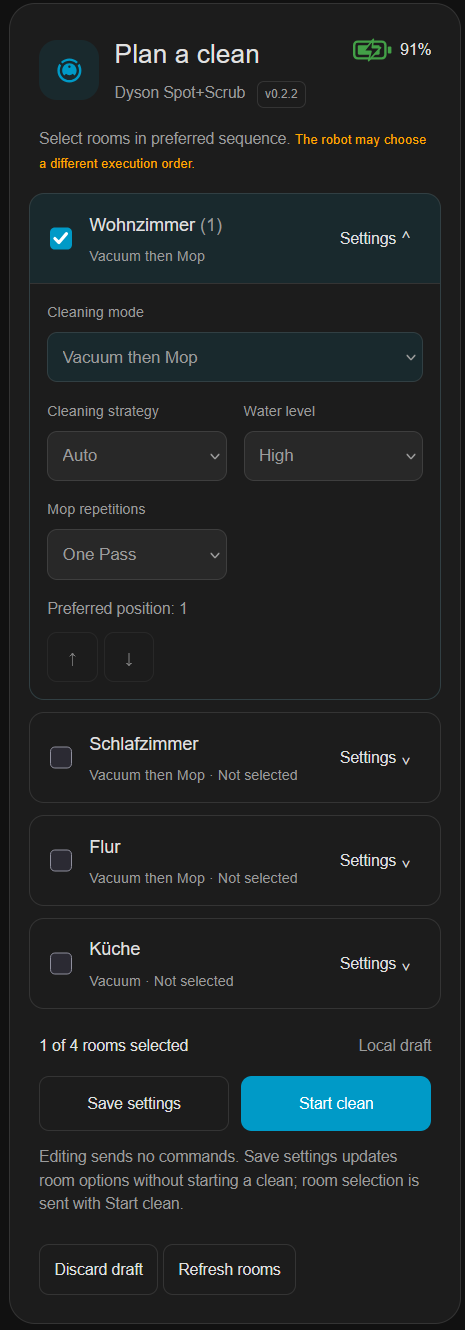
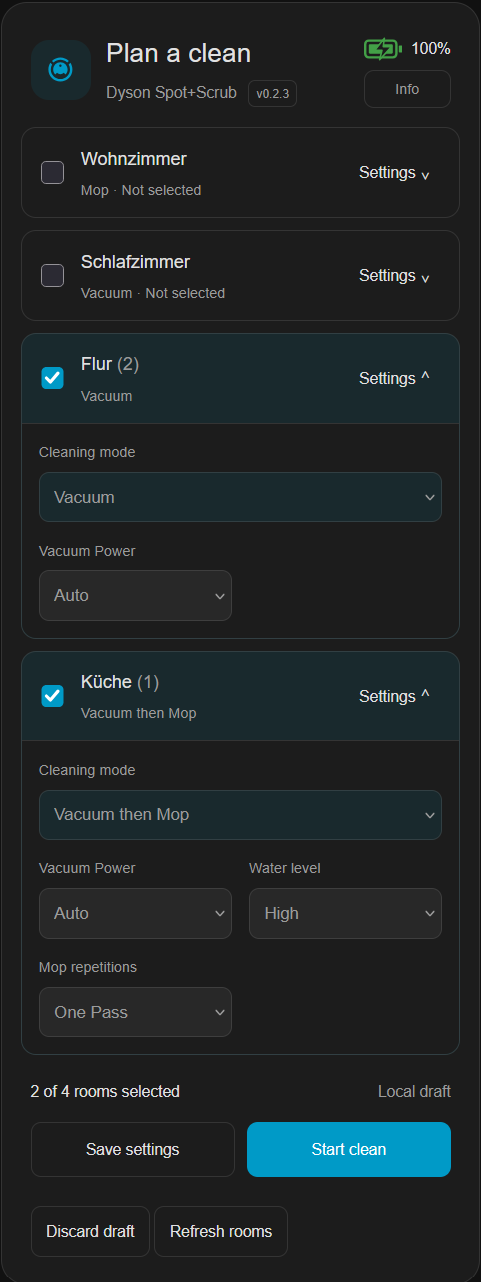
Prepare v0.3.0 with clean repetitions in every mode

diff --git a/dist/dyson-cleaning-planner-card.js b/dist/dyson-cleaning-planner-card.js
@@ -1,6 +1,6 @@
-/* Dyson Cleaning Planner Card v0.2.3 | MIT */
+/* Dyson Cleaning Planner Card v0.3.0 | MIT */
 const DOMAIN = 'dyson_spot_scrub';
-const ROOM_FIELDS = { cleaning_mode: 'Cleaning mode', cleaning_strategy: 'Vacuum Power', water_level: 'Water level', mop_repetitions: 'Mop repetitions' };
+const ROOM_FIELDS = { cleaning_mode: 'Cleaning mode', cleaning_strategy: 'Vacuum Power', water_level: 'Water level', mop_repetitions: 'Clean repetitions' };
 const available = state => !!state && !['unavailable', 'unknown'].includes(state.state) && !state.attributes?.restored;
 const escapeHtml = value => String(value ?? '').replace(/[&<>"']/g, c => ({ '&': '&amp;', '<': '&lt;', '>': '&gt;', '"': '&quot;', "'": '&#39;' }[c]));
 
@@ -706,7 +706,7 @@ class DysonCleaningPlannerCard extends DysonRegistryElement {
     if (this.consumablesOpen && !root.querySelector('.consumables-panel').contains(root.activeElement)) root.querySelector('.consumables-close').focus();
   }
   headerHtml() {
-    return `<header><div class="robot"><ha-icon icon="mdi:robot-vacuum"></ha-icon></div><div class="header-title"><h2>${escapeHtml(this.config.title)}</h2><p>Dyson Spot+Scrub <span class="tag">v0.2.3</span></p></div><div class="header-tools"><div class="battery" role="img"><svg viewBox="0 0 32 20" aria-hidden="true"><rect x="1" y="3" width="26" height="14" rx="3" fill="none" stroke="currentColor" stroke-width="2"/><rect x="29" y="7" width="3" height="6" rx="1" fill="currentColor"/><rect class="battery-fill" x="4" y="6" width="0" height="8" rx="1" fill="currentColor"/><path class="battery-bolt" d="M17 1 9 11h6l-2 8L23 8h-7Z" fill="var(--dp-bg)" stroke="currentColor" stroke-width="1.3" stroke-linejoin="round" hidden/></svg><span class="battery-value" aria-hidden="true">—</span></div><button class="consumables-info" data-action="consumables" data-focus="consumables-info" aria-label="Consumables" aria-haspopup="dialog" aria-expanded="false" title="Consumables">Info</button></div></header>`;
+    return `<header><div class="robot"><ha-icon icon="mdi:robot-vacuum"></ha-icon></div><div class="header-title"><h2>${escapeHtml(this.config.title)}</h2><p>Dyson Spot+Scrub <span class="tag">v0.3.0</span></p></div><div class="header-tools"><div class="battery" role="img"><svg viewBox="0 0 32 20" aria-hidden="true"><rect x="1" y="3" width="26" height="14" rx="3" fill="none" stroke="currentColor" stroke-width="2"/><rect x="29" y="7" width="3" height="6" rx="1" fill="currentColor"/><rect class="battery-fill" x="4" y="6" width="0" height="8" rx="1" fill="currentColor"/><path class="battery-bolt" d="M17 1 9 11h6l-2 8L23 8h-7Z" fill="var(--dp-bg)" stroke="currentColor" stroke-width="1.3" stroke-linejoin="round" hidden/></svg><span class="battery-value" aria-hidden="true">—</span></div><button class="consumables-info" data-action="consumables" data-focus="consumables-info" aria-label="Consumables" aria-haspopup="dialog" aria-expanded="false" title="Consumables">Info</button></div></header>`;
   }
   updateBattery() {
     const state = batteryStatus(this._hass, this.model);
@@ -777,7 +777,7 @@ class DysonCleaningPlannerCard extends DysonRegistryElement {
       const fields = Object.entries(ROOM_FIELDS).map(([key, label]) => {
         if (!this.config.always_show_all_settings) {
           const mode = valueOf('cleaning_mode');
-          if (mode === 'Vacuum' && ['water_level', 'mop_repetitions'].includes(key)) return '';
+          if (mode === 'Vacuum' && key === 'water_level') return '';
           if (mode === 'Mop' && key === 'cleaning_strategy') return '';
         }
         const field = room.settings?.[key];
@@ -785,7 +785,7 @@ class DysonCleaningPlannerCard extends DysonRegistryElement {
         const value = valueOf(key), options = field?.options ?? [];
         return `<label class="field ${key === 'cleaning_mode' ? 'mode' : ''}">${label}<select data-setting="${key}" data-room-id="${h(room.roomId)}" data-focus="${key}-${n}" aria-label="${label} ${h(room.name)}" ${disabled || !field ? 'disabled' : ''}>${!options.includes(value) ? '<option value="">Unavailable</option>' : ''}${options.map(option => `<option value="${h(option)}" ${value === option ? 'selected' : ''}>${h(option)}</option>`).join('')}</select>${!field ? '<span class="badge">Not available</span>' : ''}</label>`;
       }).join('');
-      return `<section class="room ${selected ? 'selected' : ''}"><div class="room-head"><label class="pick"><input type="checkbox" data-focus="room-${n}" data-room="${h(room.entity)}" ${selected ? 'checked' : ''} ${disabled ? 'disabled' : ''}><span><span class="name">${h(room.name)} ${selected ? `<span class="status">(${order})</span>` : ''}</span><span class="summary">${!room.available ? h(room.error || 'Unavailable') : h(valueOf('cleaning_mode') ?? 'Room settings unavailable')}${selected ? '' : ' · Not selected'}</span></span></label><button class="expand" data-focus="expand-${n}" data-expand="${h(room.entity || room.name)}" aria-expanded="${open}" aria-controls="fields-${n}" aria-label="Settings for ${h(room.name)}"><span>Settings</span> ${open ? '⌃' : '⌄'}</button></div><div class="fields" id="fields-${n}" ${open ? '' : 'hidden'}>${fields}${!room.roomId ? '<p class="badge mode">Room ID unavailable. Check the updated integration and refresh rooms.</p>' : ''}</div></section>`;
+      return `<section class="room ${selected ? 'selected' : ''}"><div class="room-head"><label class="pick"><input type="checkbox" data-focus="room-${n}" data-room="${h(room.entity)}" ${selected ? 'checked' : ''} ${disabled ? 'disabled' : ''}><span><span class="name">${h(room.name)} ${selected ? `<span class="status">(${order})</span>` : ''}</span><span class="summary">${!room.available ? h(room.error || 'Unavailable') : h(valueOf('cleaning_mode') ?? 'Room settings unavailable')}</span></span></label><button class="expand" data-focus="expand-${n}" data-expand="${h(room.entity || room.name)}" aria-expanded="${open}" aria-controls="fields-${n}" aria-label="Settings for ${h(room.name)}"><span>Settings</span> ${open ? '⌃' : '⌄'}</button></div><div class="fields" id="fields-${n}" ${open ? '' : 'hidden'}>${fields}${!room.roomId ? '<p class="badge mode">Room ID unavailable. Check the updated integration and refresh rooms.</p>' : ''}</div></section>`;
     }).join('');
     this.paint(`<style>${styles}</style><ha-card><div class="planner-content">${this.headerHtml()}${this.statusHtml()}<div class="rooms">${roomHtml}</div>${!rooms.length ? '<p class="empty">No enabled rooms found. Check the card configuration and room discovery.</p>' : ''}<footer><div class="summary-line"><span>${this.selected.length} of ${rooms.length} rooms selected</span><span class="status">${this.dirty ? 'Local draft' : 'From Home Assistant'}</span></div><div class="actions"><button data-action="save" data-focus="save" ${!hasChanges || this.busy || !canSave ? 'disabled' : ''}>${this.saving ? 'Saving …' : 'Save settings'}</button><button class="start" data-focus="start" data-action="start" ${this.selected.length === 0 || this.busy || dockBlocksStart(this._hass, this.config.entity) ? 'disabled' : ''}>Start clean</button></div>${!canSave || !canStart ? '<p class="notice badge">The updated Dyson integration actions are not available. Reload the integration and refresh this dashboard.</p>' : ''}${external ? '<p class="notice badge">Settings changed outside this card. Your edited values remain in the local draft.</p>' : ''}<p class="notice ${this.error ? 'error' : ''}" role="status" aria-live="polite">${h(this.message)}</p><button class="reset" data-focus="reset" data-action="reset" ${this.busy ? 'disabled' : ''}>Discard draft</button> <button class="reset" data-action="refresh" ${this.busy ? 'disabled' : ''}>Refresh rooms</button></footer></div>${this.consumablesHtml()}</ha-card>`);
     this.updateBattery();

diff --git a/src/card.js b/src/card.js
@@ -278,7 +278,7 @@ class DysonCleaningPlannerCard extends DysonRegistryElement {
     if (this.consumablesOpen && !root.querySelector('.consumables-panel').contains(root.activeElement)) root.querySelector('.consumables-close').focus();
   }
   headerHtml() {
-    return `<header><div class="robot"><ha-icon icon="mdi:robot-vacuum"></ha-icon></div><div class="header-title"><h2>${escapeHtml(this.config.title)}</h2><p>Dyson Spot+Scrub <span class="tag">v0.2.3</span></p></div><div class="header-tools"><div class="battery" role="img"><svg viewBox="0 0 32 20" aria-hidden="true"><rect x="1" y="3" width="26" height="14" rx="3" fill="none" stroke="currentColor" stroke-width="2"/><rect x="29" y="7" width="3" height="6" rx="1" fill="currentColor"/><rect class="battery-fill" x="4" y="6" width="0" height="8" rx="1" fill="currentColor"/><path class="battery-bolt" d="M17 1 9 11h6l-2 8L23 8h-7Z" fill="var(--dp-bg)" stroke="currentColor" stroke-width="1.3" stroke-linejoin="round" hidden/></svg><span class="battery-value" aria-hidden="true">—</span></div><button class="consumables-info" data-action="consumables" data-focus="consumables-info" aria-label="Consumables" aria-haspopup="dialog" aria-expanded="false" title="Consumables">Info</button></div></header>`;
+    return `<header><div class="robot"><ha-icon icon="mdi:robot-vacuum"></ha-icon></div><div class="header-title"><h2>${escapeHtml(this.config.title)}</h2><p>Dyson Spot+Scrub <span class="tag">v0.3.0</span></p></div><div class="header-tools"><div class="battery" role="img"><svg viewBox="0 0 32 20" aria-hidden="true"><rect x="1" y="3" width="26" height="14" rx="3" fill="none" stroke="currentColor" stroke-width="2"/><rect x="29" y="7" width="3" height="6" rx="1" fill="currentColor"/><rect class="battery-fill" x="4" y="6" width="0" height="8" rx="1" fill="currentColor"/><path class="battery-bolt" d="M17 1 9 11h6l-2 8L23 8h-7Z" fill="var(--dp-bg)" stroke="currentColor" stroke-width="1.3" stroke-linejoin="round" hidden/></svg><span class="battery-value" aria-hidden="true">—</span></div><button class="consumables-info" data-action="consumables" data-focus="consumables-info" aria-label="Consumables" aria-haspopup="dialog" aria-expanded="false" title="Consumables">Info</button></div></header>`;
   }
   updateBattery() {
     const state = batteryStatus(this._hass, this.model);
@@ -349,7 +349,7 @@ class DysonCleaningPlannerCard extends DysonRegistryElement {
       const fields = Object.entries(ROOM_FIELDS).map(([key, label]) => {
         if (!this.config.always_show_all_settings) {
           const mode = valueOf('cleaning_mode');
-          if (mode === 'Vacuum' && ['water_level', 'mop_repetitions'].includes(key)) return '';
+          if (mode === 'Vacuum' && key === 'water_level') return '';
           if (mode === 'Mop' && key === 'cleaning_strategy') return '';
         }
         const field = room.settings?.[key];
@@ -357,7 +357,7 @@ class DysonCleaningPlannerCard extends DysonRegistryElement {
         const value = valueOf(key), options = field?.options ?? [];
         return `<label class="field ${key === 'cleaning_mode' ? 'mode' : ''}">${label}<select data-setting="${key}" data-room-id="${h(room.roomId)}" data-focus="${key}-${n}" aria-label="${label} ${h(room.name)}" ${disabled || !field ? 'disabled' : ''}>${!options.includes(value) ? '<option value="">Unavailable</option>' : ''}${options.map(option => `<option value="${h(option)}" ${value === option ? 'selected' : ''}>${h(option)}</option>`).join('')}</select>${!field ? '<span class="badge">Not available</span>' : ''}</label>`;
       }).join('');
-      return `<section class="room ${selected ? 'selected' : ''}"><div class="room-head"><label class="pick"><input type="checkbox" data-focus="room-${n}" data-room="${h(room.entity)}" ${selected ? 'checked' : ''} ${disabled ? 'disabled' : ''}><span><span class="name">${h(room.name)} ${selected ? `<span class="status">(${order})</span>` : ''}</span><span class="summary">${!room.available ? h(room.error || 'Unavailable') : h(valueOf('cleaning_mode') ?? 'Room settings unavailable')}${selected ? '' : ' · Not selected'}</span></span></label><button class="expand" data-focus="expand-${n}" data-expand="${h(room.entity || room.name)}" aria-expanded="${open}" aria-controls="fields-${n}" aria-label="Settings for ${h(room.name)}"><span>Settings</span> ${open ? '⌃' : '⌄'}</button></div><div class="fields" id="fields-${n}" ${open ? '' : 'hidden'}>${fields}${!room.roomId ? '<p class="badge mode">Room ID unavailable. Check the updated integration and refresh rooms.</p>' : ''}</div></section>`;
+      return `<section class="room ${selected ? 'selected' : ''}"><div class="room-head"><label class="pick"><input type="checkbox" data-focus="room-${n}" data-room="${h(room.entity)}" ${selected ? 'checked' : ''} ${disabled ? 'disabled' : ''}><span><span class="name">${h(room.name)} ${selected ? `<span class="status">(${order})</span>` : ''}</span><span class="summary">${!room.available ? h(room.error || 'Unavailable') : h(valueOf('cleaning_mode') ?? 'Room settings unavailable')}</span></span></label><button class="expand" data-focus="expand-${n}" data-expand="${h(room.entity || room.name)}" aria-expanded="${open}" aria-controls="fields-${n}" aria-label="Settings for ${h(room.name)}"><span>Settings</span> ${open ? '⌃' : '⌄'}</button></div><div class="fields" id="fields-${n}" ${open ? '' : 'hidden'}>${fields}${!room.roomId ? '<p class="badge mode">Room ID unavailable. Check the updated integration and refresh rooms.</p>' : ''}</div></section>`;
     }).join('');
     this.paint(`<style>${styles}</style><ha-card><div class="planner-content">${this.headerHtml()}${this.statusHtml()}<div class="rooms">${roomHtml}</div>${!rooms.length ? '<p class="empty">No enabled rooms found. Check the card configuration and room discovery.</p>' : ''}<footer><div class="summary-line"><span>${this.selected.length} of ${rooms.length} rooms selected</span><span class="status">${this.dirty ? 'Local draft' : 'From Home Assistant'}</span></div><div class="actions"><button data-action="save" data-focus="save" ${!hasChanges || this.busy || !canSave ? 'disabled' : ''}>${this.saving ? 'Saving …' : 'Save settings'}</button><button class="start" data-focus="start" data-action="start" ${this.selected.length === 0 || this.busy || dockBlocksStart(this._hass, this.config.entity) ? 'disabled' : ''}>Start clean</button></div>${!canSave || !canStart ? '<p class="notice badge">The updated Dyson integration actions are not available. Reload the integration and refresh this dashboard.</p>' : ''}${external ? '<p class="notice badge">Settings changed outside this card. Your edited values remain in the local draft.</p>' : ''}<p class="notice ${this.error ? 'error' : ''}" role="status" aria-live="polite">${h(this.message)}</p><button class="reset" data-focus="reset" data-action="reset" ${this.busy ? 'disabled' : ''}>Discard draft</button> <button class="reset" data-action="refresh" ${this.busy ? 'disabled' : ''}>Refresh rooms</button></footer></div>${this.consumablesHtml()}</ha-card>`);
     this.updateBattery();

diff --git a/src/core.js b/src/core.js
@@ -1,5 +1,5 @@
 export const DOMAIN = 'dyson_spot_scrub';
-export const ROOM_FIELDS = { cleaning_mode: 'Cleaning mode', cleaning_strategy: 'Vacuum Power', water_level: 'Water level', mop_repetitions: 'Mop repetitions' };
+export const ROOM_FIELDS = { cleaning_mode: 'Cleaning mode', cleaning_strategy: 'Vacuum Power', water_level: 'Water level', mop_repetitions: 'Clean repetitions' };
 export const available = state => !!state && !['unavailable', 'unknown'].includes(state.state) && !state.attributes?.restored;
 export const escapeHtml = value => String(value ?? '').replace(/[&<>"']/g, c => ({ '&': '&amp;', '<': '&lt;', '>': '&gt;', '"': '&quot;', "'": '&#39;' }[c]));
 

diff --git a/README.md b/README.md
@@ -2,7 +2,7 @@
 
 A Home Assistant Lovelace card for the Dyson Spot+Scrub integration.
 
-**v0.2.3 — mode-aware room settings and live Pause/Resume controls.**
+**v0.3.0 — per-room planning, live cleaning and dock status, and consumables monitoring.**
 
 ## Requirements
 
@@ -31,11 +31,13 @@ The card checks action availability. It does not fall back to individual select 
   </tr>
 </table>
 
+[Try the interactive preview](https://futurazor.github.io/dyson-cleaning-planner-card/preview/index.html) with simulated Home Assistant entities. No robot is connected.
+
 ## Editing and cleaning
 
-Choose rooms and set each room's cleaning mode, Vacuum Power, water level, and mop repetitions. The card keeps edits as a local draft until you save or start. **Save settings** sends changed options without starting a clean; **Start clean** sends the selected rooms and their changed options together. The integration currently does not guarantee the order in which rooms are cleaned. Drafts are lost if the card is reloaded before saving or starting.
+Choose rooms and set each room's cleaning mode, Vacuum Power, water level, and Clean repetitions. The card keeps edits as a local draft until you save or start. **Save settings** sends changed options without starting a clean; **Start clean** sends the selected rooms and their changed options together. The integration currently does not guarantee the order in which rooms are cleaned. Drafts are lost if the card is reloaded before saving or starting.
 
-Settings that do not apply to the selected cleaning mode are hidden. **Always show all settings** keeps them visible; unavailable options can be shown disabled or hidden.
+Clean repetitions is available in every cleaning mode when the integration provides the setting. Water level is hidden in Vacuum mode, and Vacuum Power is hidden in Mop mode. **Always show all settings** keeps them visible; unavailable options can be shown disabled or hidden.
 
 ## Discovery
 
@@ -89,7 +91,7 @@ The usual setup can be done in the visual editor: open the dashboard, choose **E
 | `camera_entity` | Optional explicit camera on the same Dyson device |
 | `camera_rotation` | `0`, `90`, `180`, or `270` degrees |
 
-Old `mode_entity` and `start_entity` configuration keys are accepted for compatibility, but the v0.2.3 card does not use global mode or start-button entities to execute a run.
+Old `mode_entity` and `start_entity` configuration keys are accepted for compatibility, but the v0.3.0 card does not use global mode or start-button entities to execute a run.
 
 ## Development
 

diff --git a/TESTING.md b/TESTING.md
@@ -1,4 +1,4 @@
-# Testing v0.2.3
+# Testing v0.3.0
 
 ## Automated checks
 
@@ -10,8 +10,8 @@ Run `node --test tests/*.test.mjs`, `node scripts/build.mjs` and `node tests/bro
 
 ## Real Home Assistant checklist
 
-1. Confirm the card header is v0.2.3 and both new Dyson actions exist.
-2. Type a title without pressing Enter; confirm immediate preview updates and stable cursor position. Expand two rooms. Check mode-dependent visibility and enable Always show all settings to inspect all four dropdowns.
+1. Confirm the card header is v0.3.0 and both new Dyson actions exist.
+2. Type a title without pressing Enter; confirm immediate preview updates and stable cursor position. Expand two rooms. Confirm unselected rooms have no Not selected suffix. Select Clean repetitions in every cleaning mode, including Vacuum. Check mode-dependent visibility and enable Always show all settings to inspect all four dropdowns.
 3. Change several options. HA entities and the robot must remain unchanged during editing. Only the edited room should change in the card.
 4. Click Save settings. Confirm one `save_room_settings` action carries all changes, HA reflects the values, and cleaning does not start. The card's room selection must remain selected.
 5. Change another setting, then Discard draft. Confirm no service call occurs and current HA values return.

diff --git a/docs/integration-contract.md b/docs/integration-contract.md
@@ -1,4 +1,4 @@
-# v0.2.3 integration contract
+# v0.3.0 integration contract
 
 The frontend holds only a local draft. The integration translates option labels into Dyson array values.
 
@@ -38,7 +38,7 @@ The integration writes preferences once, then issues its existing protocol start
 
 Entities must belong to the same Dyson device and platform. Room switch registry unique IDs identify per-room select registry prefixes; their `room_id` attributes supply the native map ID. The card uses option labels exactly as reported by HA. Native IDs are map-scoped, so remapping requires fresh drafts.
 
-Missing actions produce a clear message and never trigger a legacy fallback. Missing options are disabled or hidden. Duplicate/ambiguous room IDs and invalid edited options are rejected before the action. The original legacy adapter remains in the source for regression coverage but is not called by the v0.2.3 UI.
+Missing actions produce a clear message and never trigger a legacy fallback. Missing options are disabled or hidden. Duplicate/ambiguous room IDs and invalid edited options are rejected before the action. The original legacy adapter remains in the source for regression coverage but is not called by the v0.3.0 UI.
 
 ## Known integration limits
 

diff --git a/CHANGELOG.md b/CHANGELOG.md
@@ -1,5 +1,15 @@
 # Changelog
 
+## v0.3.0
+
+- Remove the Not selected suffix from room summaries, retaining selection order badges.
+- Rename Mop repetitions to Clean repetitions and make it available in every cleaning mode. Keep the integration key `mop_repetitions` unchanged.
+- Show live cleaning and dock activity below the header, including roller washing, drying and dust collection.
+- Preserve single-room session badges through brief idle/docked transitions.
+- Add a consumables overlay with remaining-life bars and a subtle low-life indicator.
+- Allow starting during roller drying and correct doubled planner padding in Home Assistant.
+- Update documentation screenshots and link to the interactive preview.
+
 ## v0.2.3
 
 - Update the title preview on every keystroke, preserving the editing cursor.
